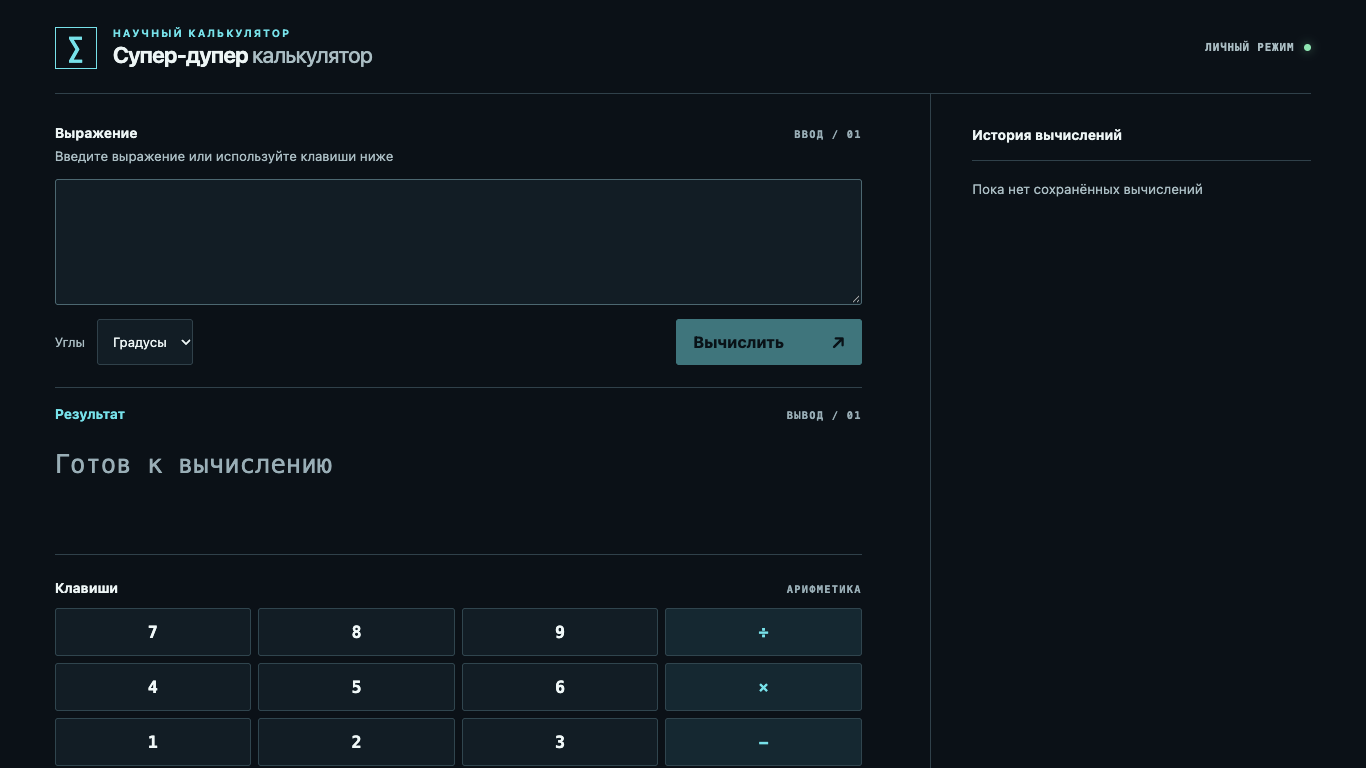
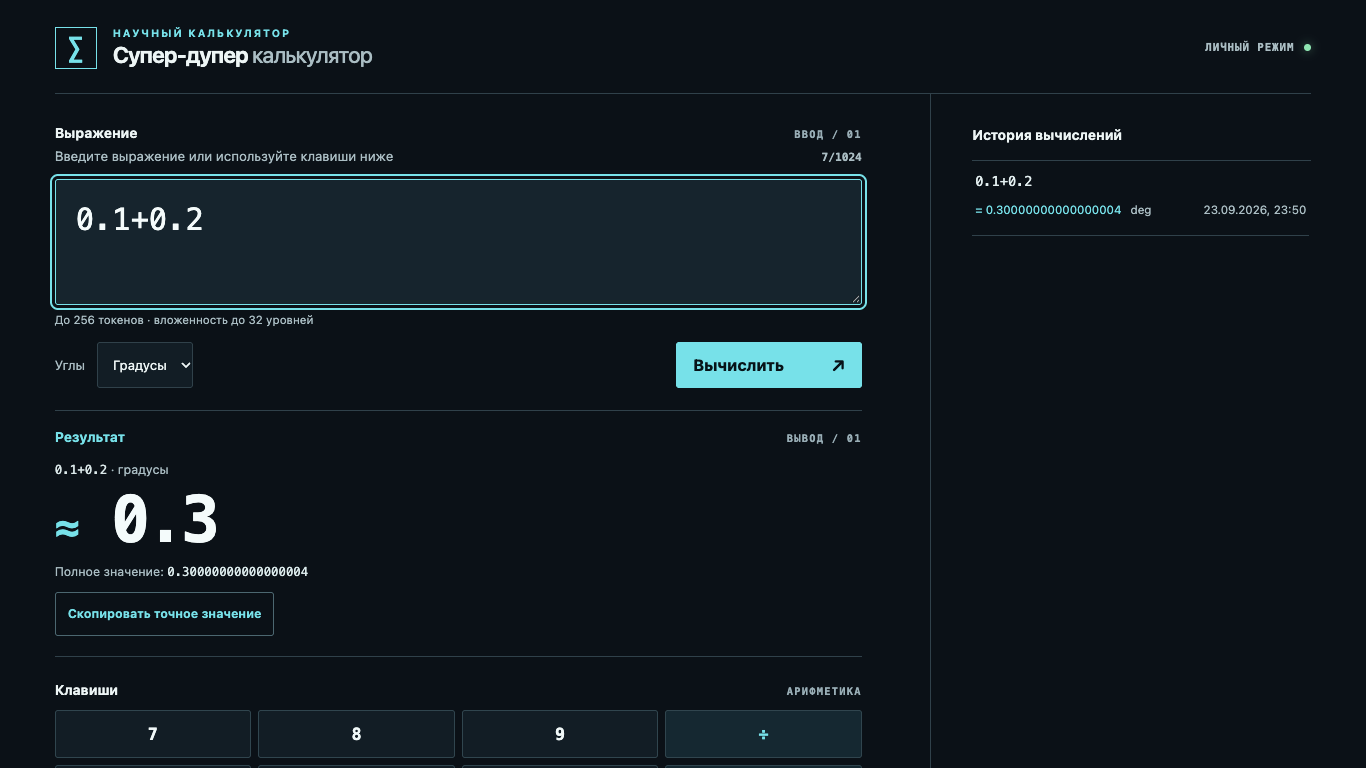
fix(web): address calculator workspace review findings

diff --git a/web/src/App.tsx b/web/src/App.tsx
@@ -14,6 +14,15 @@ type ResultState =
 const messages = getMessages('ru');
 const networkError = 'Не удалось сохранить вычисление. Проверьте соединение и повторите попытку.';
 
+function unavailableExtension(record: CalculationRecord, capabilities: Capabilities | null): string | null {
+  if (capabilities === null) return null;
+  const expression = record.expression;
+  if (!capabilities.features.factorial && expression.includes('!')) return 'факториал';
+  if (!capabilities.features.percentage && expression.includes('%')) return 'проценты';
+  if (!capabilities.features.remainder && /\bmod\s*\(/.test(expression)) return 'остаток от деления';
+  return null;
+}
+
 function displayValue(value: string) {
   const number = Number(value);
   const text = Object.is(number, -0) ? '-0' : String(Number(number.toPrecision(12)));
@@ -62,6 +71,7 @@ export default function App() {
   const [capabilities, setCapabilities] = useState<Capabilities | null>(null);
   const [capabilitiesError, setCapabilitiesError] = useState(false);
   const [copyStatus, setCopyStatus] = useState<'idle' | 'copied' | 'failed'>('idle');
+  const [restoredRecord, setRestoredRecord] = useState<CalculationRecord | null>(null);
   const submissionSequence = useRef(0);
   const historySequence = useRef(0);
   const copySequence = useRef(0);
@@ -147,6 +157,7 @@ export default function App() {
   const selectHistory = useCallback((record: CalculationRecord) => {
     setExpression(record.expression);
     setAngleUnit(record.context.angleUnit);
+    setRestoredRecord(record);
     document.getElementById('expression')?.focus();
   }, []);
 
@@ -164,6 +175,7 @@ export default function App() {
   const source = result.kind === 'record' ? result.record.expression : '';
   const span = outcome?.kind === 'error' ? outcome.error.span : null;
   const display = outcome?.kind === 'success' ? displayValue(outcome.value) : null;
+  const restoredUnavailable = restoredRecord === null ? null : unavailableExtension(restoredRecord, capabilities);
 
   return (
     <main className="workspace">
@@ -180,10 +192,16 @@ export default function App() {
         expression={expression}
         angleUnit={angleUnit}
         capabilities={capabilities}
-        onExpressionChange={setExpression}
+        onExpressionChange={(value) => { setExpression(value); setRestoredRecord(null); }}
         onAngleUnitChange={setAngleUnit}
         onSubmit={() => void submit({ requestId: crypto.randomUUID(), expression, angleUnit })}
       >
+
+      {restoredUnavailable && (
+        <p className="restored-unsupported" role="status">
+          Операция «{restoredUnavailable}» сейчас недоступна. Сохранённый ответ остаётся в истории; исправьте выражение перед новым вычислением.
+        </p>
+      )}
 
       <section className="calculation-result" aria-labelledby="result-heading">
         <div className="result-heading-row"><h2 id="result-heading">Результат</h2><span>ВЫВОД / 01</span></div>
@@ -250,6 +268,7 @@ export default function App() {
         messages={messages}
         onLoadMore={() => void loadHistory(nextCursor)}
         onSelect={selectHistory}
+        isUnsupported={(record) => unavailableExtension(record, capabilities) !== null}
       />
       {historyError && !historyLoading && (
         <button type="button" onClick={() => void loadHistory(null)}>Повторить загрузку истории</button>

diff --git a/web/src/CalculatorInput.tsx b/web/src/CalculatorInput.tsx
@@ -74,12 +74,26 @@ export function CalculatorInput({
     focusAt(start);
   }
 
+  function renderKey(key: string, scientific = false) {
+    return (
+      <button
+        key={key}
+        type="button"
+        className={`calculator-key${scientific ? ' calculator-key--scientific' : ''}${operatorKeys.has(key) ? ' calculator-key--operator' : ''}`}
+        aria-label={`Вставить ${key}`}
+        onClick={() => insert(key)}
+      >
+        {labels[key] ?? key}
+      </button>
+    );
+  }
+
   return (
     <section className="calculator-input" aria-labelledby="calculator-input-heading">
       <div className="input-heading-row"><h2 id="calculator-input-heading">Выражение</h2><span>ВВОД / 01</span></div>
       <div className="input-help">
         <label className="calculator-input-label" htmlFor="expression">Введите выражение или используйте клавиши ниже</label>
-        <span aria-label={`Длина выражения: ${expression.length} из ${expressionLimit}`}>{expression.length}/{expressionLimit}</span>
+        <span id="expression-length" aria-label={`Длина выражения: ${expression.length} из ${expressionLimit}`}>{expression.length}/{expressionLimit}</span>
       </div>
       <textarea
         ref={inputRef}
@@ -89,6 +103,7 @@ export function CalculatorInput({
         inputMode="text"
         spellCheck={false}
         maxLength={expressionLimit}
+        aria-describedby={capabilities ? 'expression-length expression-limits' : 'expression-length'}
         value={expression}
         onChange={(event) => onExpressionChange(event.target.value)}
         onKeyDown={(event) => {
@@ -99,6 +114,11 @@ export function CalculatorInput({
           }
         }}
       />
+      {capabilities && (
+        <p id="expression-limits" className="expression-limits">
+          До {capabilities.limits.tokens} токенов · вложенность до {capabilities.limits.nesting} уровней
+        </p>
+      )}
 
       <div className="calculator-actions">
         <div className="calculator-settings">
@@ -122,23 +142,11 @@ export function CalculatorInput({
 
       <div className="keypad-heading"><h2>Клавиши</h2><span>АРИФМЕТИКА</span></div>
       <div className="calculator-keys" aria-label="Кнопки калькулятора">
-        {arithmeticKeys.map((key) => (
-          <button
-            key={key}
-            type="button"
-            className={`calculator-key${operatorKeys.has(key) ? ' calculator-key--operator' : ''}`}
-            aria-label={`Вставить ${key}`}
-            onClick={() => insert(key)}
-          >
-            {labels[key] ?? key}
-          </button>
-        ))}
+        {arithmeticKeys.map((key) => renderKey(key))}
       </div>
       <div className="scientific-heading">НАУЧНЫЕ ФУНКЦИИ</div>
       <div className="scientific-keys" aria-label="Научные функции">
-        {availableScientificKeys.map((key) => (
-          <button key={key} type="button" className="calculator-key calculator-key--scientific" aria-label={`Вставить ${key}`} onClick={() => insert(key)}>{labels[key] ?? key}</button>
-        ))}
+        {availableScientificKeys.map((key) => renderKey(key, true))}
       </div>
       <div className="editor-tools">
         <button type="button" onClick={erase}>⌫ <span>Стереть</span></button>

diff --git a/web/src/styles.css b/web/src/styles.css
@@ -33,6 +33,7 @@ h2 { margin: 0; font-size: .86rem; font-weight: 670; }
 .calculator-input-label { display: block; margin: 7px 0 15px; color: var(--muted); font-size: .83rem; }
 .input-help { display: flex; justify-content: space-between; align-items: baseline; gap: 12px; }
 .input-help > span { color: var(--muted); font: 600 .7rem var(--mono); white-space: nowrap; }
+.expression-limits { margin: 7px 0 0; color: var(--muted); font-size: .72rem; line-height: 1.4; }
 .calculator-expression { display: block; width: 100%; min-height: 112px; padding: 18px 20px; border: 1px solid #4c6770; border-radius: 3px; background: var(--surface); color: #f4fbfb; font: 500 clamp(1.35rem, 3vw, 1.9rem)/1.45 var(--mono); resize: vertical; overflow-wrap: anywhere; caret-color: var(--accent); transition: border-color .16s ease, background-color .16s ease; }
 .calculator-expression:hover, .calculator-expression:focus { border-color: var(--accent); background: #16242d; }
 .calculator-actions { display: flex; align-items: stretch; justify-content: space-between; gap: 16px; margin-top: 14px; }
@@ -57,6 +58,7 @@ h2 { margin: 0; font-size: .86rem; font-weight: 670; }
 .result-error { margin: 12px 0 8px; color: var(--error); font-size: 1.05rem; font-weight: 700; }
 .publication-status { margin: 8px 0 0; color: var(--accent); font-size: .78rem; }
 .publication-status--warning { color: var(--error); }
+.restored-unsupported { margin: 14px 0 0; color: var(--error); font-size: .78rem; line-height: 1.45; }
 .result-highlight { display: block; color: #e2eff0; white-space: pre-wrap; overflow-wrap: anywhere; }
 .result-highlight mark { background: #ad5e48; color: #fff; }
 .keypad-heading { margin-bottom: 12px; }
@@ -101,11 +103,11 @@ h2 { margin: 0; font-size: .86rem; font-weight: 670; }
 }
 @media (max-width: 480px) {
   .workspace { padding: 15px 17px 42px; }
-  .workspace-header { gap: 11px; }
+  .workspace-header { gap: 4px 11px; flex-wrap: wrap; }
   .brand-mark { width: 37px; height: 37px; font-size: 23px; }
   h1 { font-size: 1.05rem; }
   h1 span { display: block; }
-  .workspace-state { font-size: 0; gap: 0; }
+  .workspace-state { flex-basis: calc(100% - 48px); margin: 2px 0 0 48px; font-size: .72rem; gap: 9px; }
   .workspace-state span { width: 9px; height: 9px; }
   .calculator-input { padding-top: 23px; }
   .calculator-expression { min-height: 100px; padding: 15px; }
@@ -116,4 +118,5 @@ h2 { margin: 0; font-size: .86rem; font-weight: 670; }
   .scientific-keys { grid-template-columns: repeat(4, minmax(0, 1fr)); }
   .calculator-key--scientific { font-size: .73rem; }
 }
+@media (max-width: 340px) { .calculator-submit span { display: none; } }
 @media (prefers-reduced-motion: reduce) { *, *::before, *::after { animation-duration: .01ms !important; transition-duration: .01ms !important; scroll-behavior: auto !important; } }

diff --git a/web/INTEGRATION.md b/web/INTEGRATION.md
@@ -12,8 +12,10 @@ calculation, durable records, and capability flags. Feature components should
 consume `src/contracts.ts` types, receive server data from the root, and report
 user actions upward. They should not add another evaluator or API client.
 
-The root loads capabilities once and passes them to controls. A failed
-capability request leaves the core keypad available and shows a warning.
+The root loads capabilities once and passes them to controls and history.
+History keeps stored outcomes readable while warning when an old expression
+uses a disabled extension. A failed capability request leaves the core keypad
+available and shows a warning.
 Optional controls should mount only after their complete server behavior is
 enabled and integrated. For rooms, keep the current room code and publication
 choice in `App` state for that tab. Supply room context explicitly on each new
